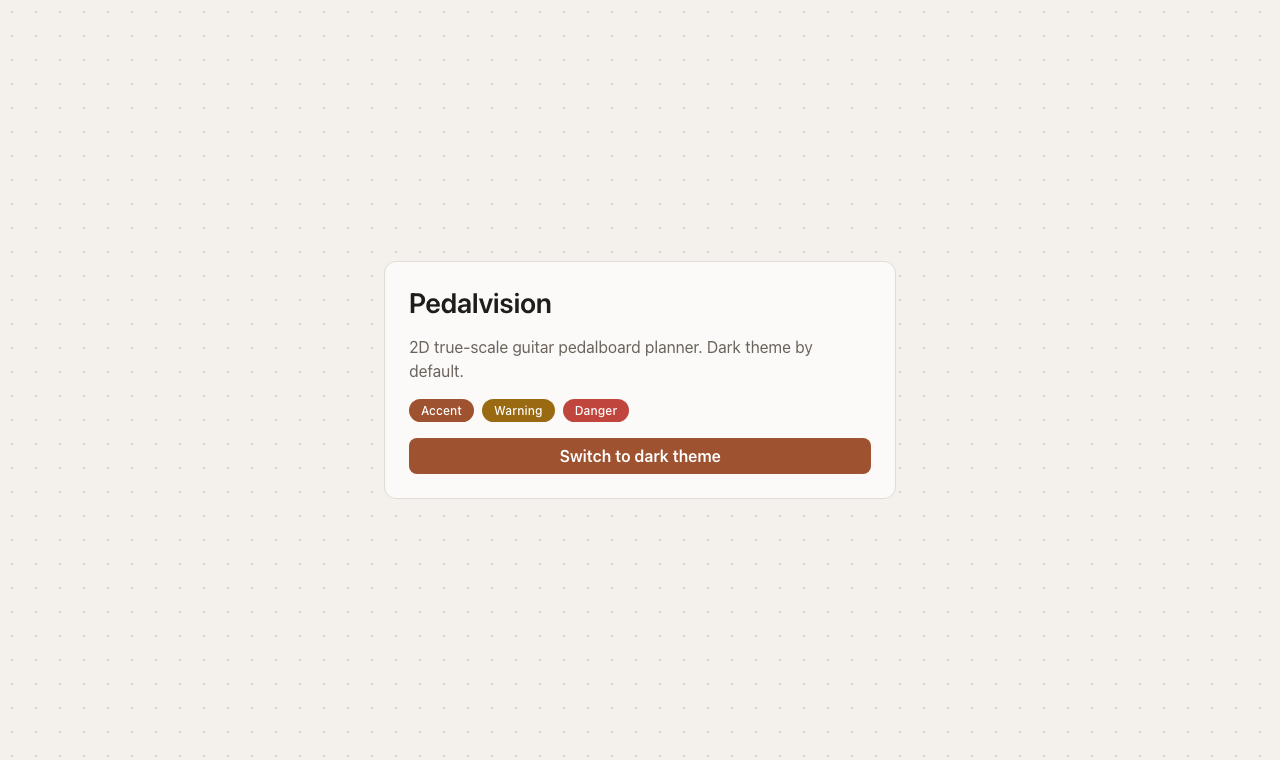
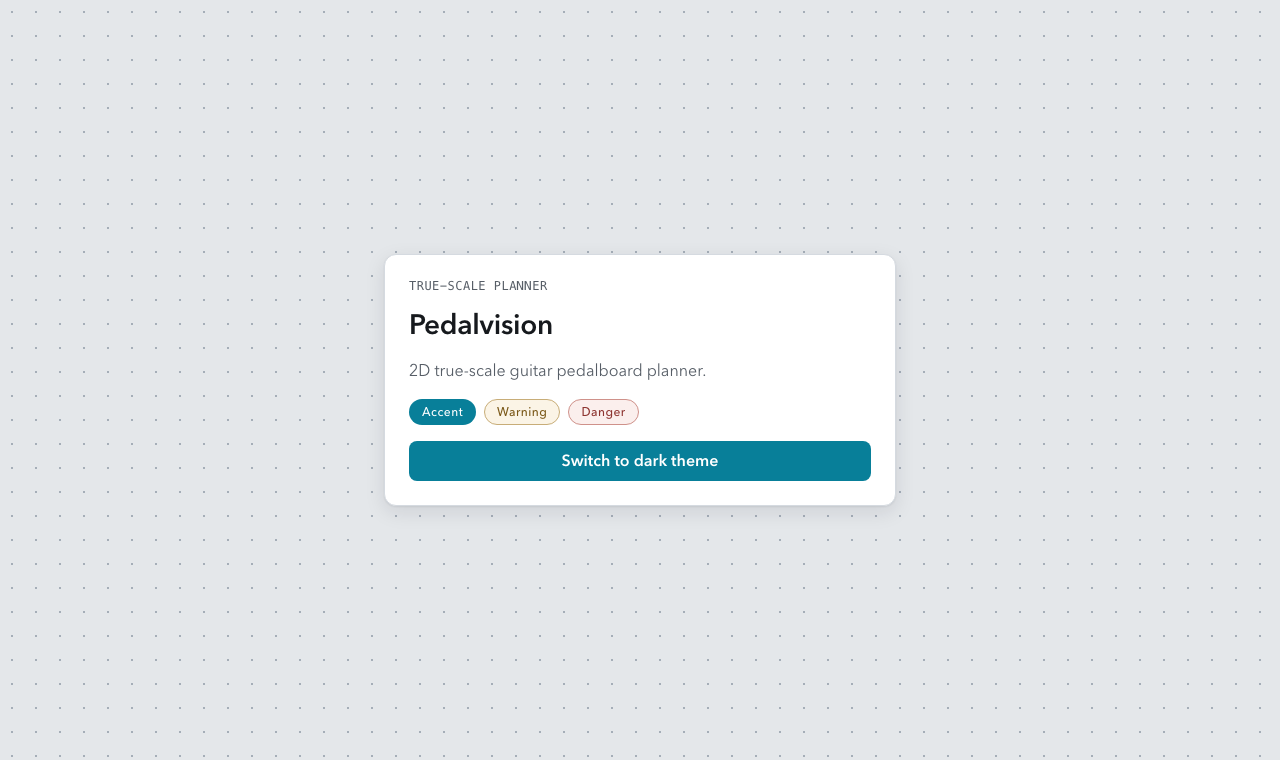
feat: P0-03 Blueprint direction (designer⇄reviewer loop, 3 rounds)

Changed region(s): [[0.2812, 0.3632, 0.7188, 0.6961]]

diff --git a/src/styles/tokens.css b/src/styles/tokens.css
@@ -1,33 +1,46 @@
 /*
  * Pedalvision design tokens — the single source of truth for visual values.
- * Direction: "Studio Clay" (owner-approved 2026-10-12, see ADR-005).
- * Warm graphite canvas + one desaturated clay accent; depth by luminance
- * ladder + hairline borders, never shadows/glow. Dark is the default (:root);
- * light is a variables-only override. Konva cannot read CSS variables — keep
- * src/styles/theme.ts in sync (tested).
+ * Direction: "Blueprint" (designer⇄reviewer loop, 3 rounds, 2026-10-12; owner
+ * approval pending — supersedes "Studio Clay"). True-scale drafting language:
+ * NEUTRAL canvas (no cast on pedal photos), cool-tinted chrome, one cyan
+ * accent reserved for primary actions/selection, mono only for measurement
+ * labels, and quiet semantic status pills (tinted surface + colored ink).
+ * Dark default; light is a variables-only override. Konva cannot read CSS
+ * variables — keep src/styles/theme.ts in sync.
  */
 
 :root {
 	color-scheme: dark;
 
-	/* Canvas */
-	--color-canvas-bg: #171614;
-	--color-grid-dot: #2e2a26;
+	/* Canvas — strictly neutral (no hue cast on content) */
+	--color-canvas-bg: #191a1c;
+	--color-grid-dot: #3f444b;
 
-	/* Surfaces & ink */
-	--color-surface: #201e1b;
-	--color-surface-raised: #292521;
-	--color-border: #35302b;
-	--color-ink: #f3f0ed;
-	--color-ink-muted: #a9a29a;
+	/* Surfaces & ink — cool tint lives here, never on the canvas */
+	--color-surface: #22262b;
+	--color-surface-raised: #383e45;
+	--color-border: #3a4048;
+	--color-ink: #eef1f4;
+	--color-ink-muted: #a8b0b8;
 
-	/* Accent & status */
-	--color-accent: #c77b5a;
-	--color-accent-strong: #d9895f;
-	--color-on-accent: #1c1109;
-	--color-warning: #e0a13c;
-	--color-danger: #e0685f;
-	--color-cable: #d8d2cb;
+	/* Accent — exactly one accent hue (cyan) */
+	--color-accent: #66c9de;
+	--color-accent-strong: #83d1e2;
+	--color-on-accent: #0e1418;
+	--color-cable: #b9c2cc;
+
+	/* Status — quiet: colored ink on a tinted surface with a hairline border */
+	--color-warning: #d8b77b;
+	--color-warning-surface: #302b20;
+	--color-warning-border: #5b4d31;
+	--color-danger: #d9938c;
+	--color-danger-surface: #302422;
+	--color-danger-border: #5e3c39;
+
+	/* Elevation — dark rides the luminance ladder + a restrained lift */
+	--shadow-raised:
+		0 2px 4px rgb(0 0 0 / 0.28), 0 12px 32px rgb(0 0 0 / 0.3),
+		inset 0 1px 0 rgb(255 255 255 / 0.065);
 
 	/* Spacing scale (4px base) */
 	--space-1: 4px;
@@ -37,15 +50,19 @@
 	--space-5: 24px;
 	--space-6: 32px;
 
-	/* Radii (never mix sm and lg in one component) */
-	--radius-sm: 4px;
+	/* Radii — deliberate 2-step scale (controls 8 / cards 12) */
+	--radius-sm: 8px;
 	--radius-md: 8px;
 	--radius-lg: 12px;
 	--radius-pill: 999px;
 
-	/* Typography */
-	--font-sans: system-ui, "Segoe UI", Roboto, sans-serif;
-	--font-mono: ui-monospace, SFMono-Regular, Menlo, monospace;
+	/* Typography — humanist sans carries the voice; mono is instrumentation only */
+	--font-sans:
+		"Avenir Next", "Segoe UI", system-ui, Roboto, "Helvetica Neue", Arial,
+		sans-serif;
+	--font-mono:
+		ui-monospace, "SF Mono", SFMono-Regular, "Cascadia Mono", Menlo, Consolas,
+		monospace;
 	--font-size-xs: 0.75rem;
 	--font-size-sm: 0.875rem;
 	--font-size-md: 1rem;
@@ -56,9 +73,9 @@
 	--font-weight-semibold: 600;
 	--tracking-tight: -0.01em;
 	--tracking-normal: 0;
-	--tracking-wide: 0.01em;
+	--tracking-wide: 0.04em;
 
-	/* Dot grid — subtle infrastructure, not noise */
+	/* Dot grid — clearly visible, still the calmest layer (~1.8:1 vs canvas) */
 	--grid-dot-size: 24px;
 	--grid-dot-radius: 1px;
 }
@@ -66,22 +83,32 @@
 [data-theme="light"] {
 	color-scheme: light;
 
-	/* Canvas */
-	--color-canvas-bg: #f4f1ed;
-	--color-grid-dot: #d9d3ca;
+	/* Canvas — neutral */
+	--color-canvas-bg: #e4e7ea;
+	--color-grid-dot: #a5aeb8;
 
 	/* Surfaces & ink */
-	--color-surface: #fbfaf8;
-	--color-surface-raised: #f0ece6;
-	--color-border: #e2dcd4;
-	--color-ink: #1f1c19;
-	--color-ink-muted: #6b645c;
+	--color-surface: #ffffff;
+	--color-surface-raised: #ffffff;
+	--color-border: #d5dae0;
+	--color-ink: #16191d;
+	--color-ink-muted: #565d66;
 
-	/* Accent & status */
-	--color-accent: #9e5230;
-	--color-accent-strong: #834327;
+	/* Accent — same hue as dark (~191°), lightness only */
+	--color-accent: #087f99;
+	--color-accent-strong: #08677a;
 	--color-on-accent: #ffffff;
-	--color-warning: #9a6a12;
-	--color-danger: #c0453c;
-	--color-cable: #4a443d;
+	--color-cable: #4d565f;
+
+	/* Status — quiet tinted pills */
+	--color-warning: #7a5818;
+	--color-warning-surface: #fbf4e6;
+	--color-warning-border: #c8ad78;
+	--color-danger: #8d3430;
+	--color-danger-surface: #fbefed;
+	--color-danger-border: #cf918a;
+
+	/* Elevation — white cards get a cool-tinted soft shadow */
+	--shadow-raised:
+		0 1px 2px rgb(15 23 42 / 0.07), 0 6px 20px rgb(15 23 42 / 0.1);
 }

diff --git a/src/index.css b/src/index.css
@@ -60,6 +60,17 @@ p {
 	background-color: var(--color-surface);
 	border: 1px solid var(--color-border);
 	border-radius: var(--radius-lg);
+	box-shadow: var(--shadow-raised);
+}
+
+/* Mono is "instrumentation" — eyebrow labels, not prose. */
+.panel__eyebrow {
+	font-family: var(--font-mono);
+	font-size: var(--font-size-xs);
+	font-weight: var(--font-weight-medium);
+	letter-spacing: var(--tracking-wide);
+	text-transform: uppercase;
+	color: var(--color-ink-muted);
 }
 
 .panel__title {
@@ -82,24 +93,32 @@ p {
 }
 
 .badge {
+	display: inline-flex;
+	align-items: center;
 	padding: var(--space-1) var(--space-3);
+	border: 1px solid transparent;
 	border-radius: var(--radius-pill);
 	font-size: var(--font-size-xs);
 	font-weight: var(--font-weight-medium);
 	letter-spacing: var(--tracking-wide);
-	color: var(--color-on-accent);
 }
 
 .badge--accent {
 	background-color: var(--color-accent);
+	color: var(--color-on-accent);
 }
 
+/* Status pills are quiet: colored ink on a tinted surface, not loud fills. */
 .badge--warning {
-	background-color: var(--color-warning);
+	background-color: var(--color-warning-surface);
+	border-color: var(--color-warning-border);
+	color: var(--color-warning);
 }
 
 .badge--danger {
-	background-color: var(--color-danger);
+	background-color: var(--color-danger-surface);
+	border-color: var(--color-danger-border);
+	color: var(--color-danger);
 }
 
 .button {

diff --git a/src/styles/theme.ts b/src/styles/theme.ts
@@ -6,7 +6,7 @@
  * key to the token name in src/styles/tokens.css; theme.test.ts asserts the
  * literals stay in sync with both the :root (dark) and light scopes.
  *
- * Values track the "Studio Clay" direction (ADR-005, owner-approved).
+ * Values track the "Blueprint" direction (Draft 2, designer⇄reviewer loop).
  */
 
 export const CANVAS_THEME_VARS = {
@@ -23,18 +23,18 @@ export type CanvasTheme = Record<CanvasThemeKey, string>;
 
 /** Default theme (matches :root in tokens.css). */
 export const canvasTheme: CanvasTheme = {
-	gridDot: "#2e2a26",
-	canvasBackground: "#171614",
-	selection: "#c77b5a",
-	selectionStrong: "#d9895f",
-	cable: "#d8d2cb",
+	gridDot: "#3f444b",
+	canvasBackground: "#191a1c",
+	selection: "#66c9de",
+	selectionStrong: "#83d1e2",
+	cable: "#b9c2cc",
 };
 
 /** Light theme (matches [data-theme="light"] in tokens.css). */
 export const lightCanvasTheme: CanvasTheme = {
-	gridDot: "#d9d3ca",
-	canvasBackground: "#f4f1ed",
-	selection: "#9e5230",
-	selectionStrong: "#834327",
-	cable: "#4a443d",
+	gridDot: "#a5aeb8",
+	canvasBackground: "#e4e7ea",
+	selection: "#087f99",
+	selectionStrong: "#08677a",
+	cable: "#4d565f",
 };

diff --git a/src/App.tsx b/src/App.tsx
@@ -16,10 +16,9 @@ function App() {
 	return (
 		<main className="app dot-grid">
 			<section className="panel">
+				<p className="panel__eyebrow">True-scale planner</p>
 				<h1 className="panel__title">Pedalvision</h1>
-				<p className="panel__text">
-					2D true-scale guitar pedalboard planner. Dark theme by default.
-				</p>
+				<p className="panel__text">2D true-scale guitar pedalboard planner.</p>
 				<div className="badges">
 					<span className="badge badge--accent">Accent</span>
 					<span className="badge badge--warning">Warning</span>

diff --git a/docs/progress.md b/docs/progress.md
@@ -1,8 +1,8 @@
 # Progress
 
 **Current phase:** P0 — Foundation
-**Next task:** P0-03 (direction decision PENDING) → owner picks one of 4 options in **PR #3** (`design-options`); then P0-03 tokens are redone to the chosen direction. P0-04 follows.
-**Last updated:** 2026-10-12 (design decision pending — PR #3)
+**Next task:** P0-03 (Blueprint implemented via loop — **owner approval PENDING**; PR #2 updated, PR #3 is the options record). P0-04 follows after approval.
+**Last updated:** 2026-10-12 (Blueprint design loop complete — 3 rounds)
 
 > See `docs/phase-guide.md` for what each phase does and which ones need owner action (and why).
 
@@ -16,8 +16,8 @@
 - [x] R5 closes: detached offscreen export Stage, endpoint margin, SVG font determinism + pinned sharp, fit-capped "all content", pan-interrupt drop-in-place
 
 ## In progress
-- [ ] **Design direction decision (2026-10-12):** owner rejected "Studio Clay" (PR #2) as still too orange. Designer agent produced **4 cold-only directions** (Ashen Editorial, Verdigris, Indigo Dusk, Blueprint) — different palettes + fonts, all AA. Rendered dark+light for each and presented in **PR #3** (`design-options`, docs-only). **Reviewer ran on the renders (vision model) — see PR #3 comment; result split: designer + reviewer-pass-1 → Blueprint, reviewer-pass-2 → Ashen Editorial.** Waiting on owner to pick. On pick: implement chosen tokens on P0-03, refresh PR #2, close/keep PR #3 as the record.
-- [x] **Design governance extended (2026-10-12):** added the `design-reviewer` agent (vision-based, sees rendered screenshots) + `/visual-review` and `/design-loop` commands; AGENTS.md Design gate now defines "heavy design tasks" and the **designer⇄reviewer loop (max 3 iterations, owner-approved before start)**; ADR-005 amended. Both designer + reviewer agents are `mode: all` (needed so commands/headless runs work; `--agent <subagent>` falls back).
+- [ ] **P0-03 = "Blueprint" (owner approval PENDING).** Owner rejected Studio Clay as too orange; the designer produced 4 cold options (PR #3); consensus top = **Blueprint** (navy-neutral + cyan, mono-for-instrumentation). Ran the **designer⇄reviewer loop (3 rounds, feedback + implementation each)** — see session log. Final reviewer verdict: **light theme APPROVE, dark theme changes** (only remaining nit: dark card elevation too weak). Implemented in `tokens.css`/`theme.ts`/`index.css`/`App.tsx`; PR #2 updated. **Owner must approve the Blueprint direction** before merge.
+- [x] **Design governance extended (2026-10-12):** added the `design-reviewer` agent (vision-based, sees rendered screenshots) + `/visual-review` and `/design-loop` commands; AGENTS.md Design gate defines "heavy design tasks" and the **designer⇄reviewer loop (max 3 iterations, every round = reviewer feedback + designer revision + code implementation + re-render, owner-approved before start)**; ADR-005 amended.
 - [x] **2026-09-29 INCIDENT:** `pnpm create vite . --overwrite` deleted `docs/`, `AGENTS.md`, and the Notion PDF (repo wasn't a git repo → no recovery from git). Docs fully restored from planning-session context; **git repo initialized** (root commit `fe22a1c`). PDF must be re-exported from Notion.
 
 ## Blockers / external
@@ -27,7 +27,8 @@
 - **Sequencing note (S7):** P0-02 is done (2026-09-30). **Owner-blocked rule (owner instruction, 2026-09-29):** when the next task is owner-blocked, agents STOP and wait for the owner — they do NOT skip ahead to unblocked tasks. Remaining owner actions: P0-05 dataset, P2-06 outreach, launch gate (see `docs/phase-guide.md`). P0-03/P0-04 are NOT owner-blocked.
 
 ## Session log
-- 2026-10-12 — **Design reviewer added + ran on the options.** Created the `design-reviewer` agent (staff visual QA; opens screenshot PNGs with vision model `opencode-go/deepseek-v4-flash-vision-exp`) and `/visual-review` + `/design-loop` commands; plan updated (AGENTS.md Design gate → heavy design tasks run a **designer⇄reviewer loop, max 3 iterations, owner-approved before start**; ADR-005 amended; design.md note). Ran the reviewer on PR #3's 8 renders: **verdict split — pass 1 preferred Blueprint, pass 2 preferred Ashen Editorial** (designer recommended Blueprint). Key cross-option gaps it flagged: dark dot-grid effectively invisible on near-black; light-mode warning pill goes muddy olive in all four; tinted canvases (violet/navy/green) will fight pedal photos; no populated-canvas or interaction-state mock. Posted to PR #3. **Owner decision still pending.**
+- 2026-10-12 — **Blueprint design loop (3 rounds).** Owner asked for the reviewer loop to include implementation each round and to apply it. Fixed `/design-loop` + AGENTS.md + ADR-005 so **every round = reviewer feedback → designer revision → code implementation → re-render** (a round without implementation doesn't count). Designer ranked the 4 options (1 Blueprint, 2 Ashen, 3 Verdigris, 4 Indigo) and revised the #1. Ran the loop on **Blueprint** with the vision reviewer (real screenshots): R1 fixed the original gaps (dark grid now visible, light warning gold not olive, neutral canvas, voice un-split, light elevation) → verdict "changes"; R2 (unified accent hue, darker light muted text, deeper danger, 8/12 radius) → "changes" (pills too loud, dark card flat); R3 (semantic pills → quiet tinted surfaces, dark card lifted, accent desaturated, orphan copy fixed) → **light APPROVE, dark changes** (remaining: dark card elevation weak, button weight, radius harmony, dot-grid consistency). Max 3 rounds reached — stopped. Implemented each round in `src/styles/tokens.css`/`theme.ts`/`index.css`/`App.tsx`; renders in `docs/screenshots/design-loop/`; PR #2 updated to Blueprint. **Owner approval of the direction is pending.**
+- 2026-10-12 — **Design reviewer added + ran on the options.** Created the `design-reviewer` agent (staff visual QA; opens screenshot PNGs with vision model `opencode-go/deepseek-v4-flash-vision-exp`) and `/visual-review` + `/design-loop` commands; plan updated (AGENTS.md Design gate; ADR-005 amended; design.md note). Ran the reviewer on PR #3's 8 renders: **verdict split — pass 1 preferred Blueprint, pass 2 preferred Ashen Editorial** (designer recommended Blueprint). Posted to PR #3. **Owner decision was pending** (now resolved to Blueprint via the loop).
 - 2026-10-12 — **Design direction decision opened.** Owner rejected Studio Clay as still too orange and asked for multiple options (new palettes + fonts). Designer agent researched 2025/2026 trends and produced **4 distinct cold-only directions**: Ashen Editorial (cobalt + serif), Verdigris (blue-green patina), Indigo Dusk (violet/indigo calm-tech), Blueprint (navy + cyan, mono-forward drafting). All AA-verified, token names + dark-default mechanism unchanged, system-font stacks rendered (zero new deps). Rendered each dark+light (spot-verified computed canvas colors) → **PR #3** (`design-options`, docs-only, base `main`). Designer recommends **Blueprint**; runner-up Ashen Editorial. **Owner to pick a direction**, then P0-03 tokens are redone and PR #2 updated.
 - 2026-10-12 — **P0-03 redesign done ("Studio Clay").** Owner rejected the v1 dark-slate+amber palette as "like other pedal planners" and instructed: design work is now gated behind a **designer agent** (staff-level UX/UI expert). Plan updated: AGENTS.md **Design gate** (mandatory designer review for all design tasks; if the owner does design manually, always propose the designer first; new directions need owner approval), new `.opencode/agent/designer.md` + `/design-review` command, **ADR-005** (design governance), `design.md` + P0-03 task notes, and a **minimal-dependencies** owner principle in AGENTS.md hard constraints (prefer zero new deps, evergreen choices only, justify per task/ADR). Designer agent researched 2026 trends (Linear/Geist/Raycast systems + trend roundups) and proposed **"Studio Clay"** (warm graphite + desaturated clay accent, luminance ladder, cream light). **Owner approved as-is with system fonts.** Implemented: tokens.css values swapped, theme.ts mirrored (sync test green), type discipline tokens, demo chrome untouched (colors only → proves variables-only theming). Re-verified: `pnpm lint`/`test`(3)/`build`/`e2e` pass, computed-style flip check (canvas `#171614`↔`#f4f1ed`, ink `#f3f0ed`↔`#1f1c19`, panel `#201e1b`↔`#fbfaf8`, identical classes), grep for hex in components clean, screenshots regenerated. Note: Vitest `?raw` CSS import returns empty in this stack → theme sync test reads tokens.css via `node:fs` (tsconfig `types` includes `node`).
 - 2026-10-12 — **P0-03 v1 submitted.** Design tokens first pass (mechanism + dark-slate+amber palette). Owner rejected palette; direction went through the designer agent; v1 superseded by Studio Clay. PR #2 updated and handed back to the owner for review.
